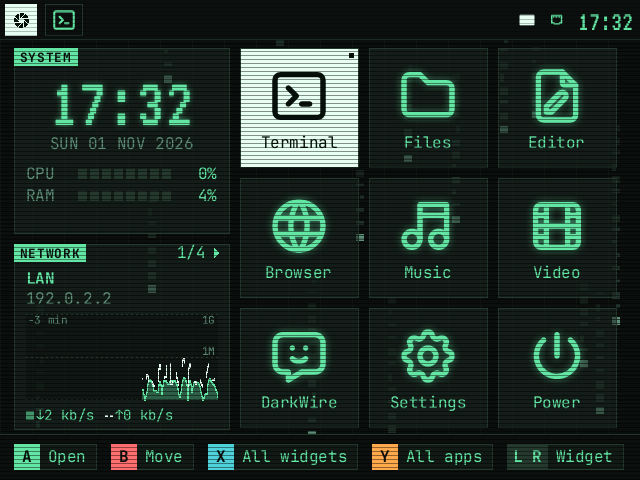
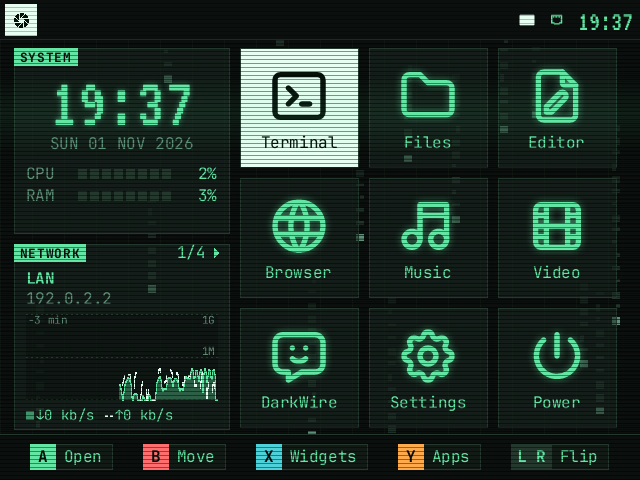
README plus sobre, fonctions ajoutées, contributions ; briques à jour
Le README présente l'accueil et ses épingles, les widgets épinglés et le
défilement au doigt, sur un ton neutre, et dit que les issues sont
bienvenues mais pas les pull requests. Captures refaites sur le fork
0.4.2+u18, plus Tous les widgets. CLAUDE.md perd sa partie Environnement
et parle de l'utilisateur dans Tests. briques.md rattrape u2-u4, u6, u13,
u16, u18 et ne renvoie plus au dossier partagé.

Claude-Session: https://claude.ai/code/session_01TamZHopLs23VsKSuJrapoh

diff --git a/docs/briques.md b/docs/briques.md
@@ -23,8 +23,8 @@ Une ligne par brique : ce qu'on prend, pourquoi, ou pourquoi on l'écarte.
 | config Start / Select | inutile | le comportement voulu (menu, bascule d'apps, jamais transmis aux apps) est celui de PT35-OS par défaut |
 | `stow --no-folding` | retenu | sans lui, stow lie tout `~/.config/pt35` vers le dépôt, et Apparence écrirait `appearance.toml` dans le dépôt |
 | [Pixelitos](https://github.com/ItsZariep/pixelitos-icon-theme), [Star Pixel](https://github.com/starciad/star-pixel-icons-theme) | écarté | thèmes d'icônes pixel en PNG et en couleur ; `pt35-menu` ne lit que du SVG |
-| teinte verte des icônes Papirus (patch fork) | écarté | choix de Djé : nos propres icônes pixel plutôt qu'une teinte automatique |
-| icônes pixel maison (32x32) | écarté | dessinées puis remplacées : Djé préfère des SVG nets, le halo et les scanlines venant du rendu |
+| teinte verte des icônes Papirus (patch fork) | écarté | nos propres icônes plutôt qu'une teinte automatique |
+| icônes pixel maison (32x32) | écarté | dessinées puis remplacées par des SVG nets, le halo et les scanlines venant du rendu |
 | [Tabler Icons](https://github.com/tabler/tabler-icons) (MIT) | retenu | SVG au trait, 5900 icônes, cône VLC compris ; `tools/icons.sh` en copie 12 en vert dans le thème `Phosphore`, qui hérite de Papirus |
 | [Lucide](https://github.com/lucide-icons/lucide) (ISC) | écarté | même style et a toutes nos icônes, mais deux fois moins fourni que Tabler |
 | halo et scanlines en SVG (`feGaussianBlur`, resvg le gère) | écarté | à refaire dans chaque fichier ; fait une fois au rendu dans notre fork (`0.4.2+u2`) |
@@ -40,10 +40,10 @@ Une ligne par brique : ce qu'on prend, pourquoi, ou pourquoi on l'écarte.
 | client D-Bus en Rust (`zbus`) | écarté | nouvelle dépendance et plus de code pour ce que `playerctl` fait déjà |
 | VLC pour Musique | remplacé | Musique passe sur mpv + uosc : une seule interface à habiller pour la musique et la vidéo |
 | icône principale : Tabler `aperture`, `headset`, `radioactive` | écarté | floues à 16 px dans la barre, et la barre dessine le crâne en pixels : il aurait fallu y lire un SVG ; `radioactive` est un signal de danger |
-| icône principale : obturateur 8 lames en pixel art (fork `0.4.2+u7`) | retenu | clin d'œil à Portal, net à 16 px car ses fentes suivent la grille ; remplace le dessin du crâne tel quel. Pistes : `design/icone-main-pistes-v2.png` du dossier partagé |
+| icône principale : obturateur 8 lames en pixel art (fork `0.4.2+u7`) | retenu | clin d'œil à Portal, net à 16 px car ses fentes suivent la grille ; remplace le dessin du crâne tel quel. Pistes : [`docs/design/icone-main/pistes-v2.png`](design/icone-main/pistes-v2.png) |
 | interrupteurs `0` / `1` (premier jet u9) | remplacé | ON / OFF en toutes lettres sur fond plein vert ou rouge : l'état se lit sans distinguer les couleurs |
 | thème Plymouth `script` (`plymouth/pocketterm/`) | retenu | remplace l'écran « Raspberry Pi Desktop » (thème `pix` de `rpd-plym-splash`) sans fork : une image par état de la barre, échangées par le script |
-| images de démarrage générées à l'install (`tools/splash.py`, Pillow) | retenu | aucune image dans le dépôt : couleurs, obturateur et police viennent de la charte, un changement suit au prochain `install.sh`. Pistes : `design/boot/` du dossier partagé |
+| images de démarrage générées à l'install (`tools/splash.py`, Pillow) | retenu | aucune image dans le dépôt : couleurs, obturateur et police viennent de la charte, un changement suit au prochain `install.sh` |
 | texte dessiné par Plymouth (`Image.Text`) | écarté | il faudrait mettre la police dans l'initramfs ; l'image figée suffit |
 | numéros de ligne dans les listes | écarté | bruit à 640x480, le fil d'Ariane donne déjà la position ; `install.sh` pose `show_numbers = false` |
 | accueil uosc à l'idle, `scripts/pt35-home.lua` (API de menus d'uosc) | retenu | écran noir sans fichier une fois « Drop files » masqué. Un menu uosc dit que la médiathèque est vide et propose Browse (navigateur d'uosc) et une URL tapée dans son champ de recherche : thème déjà fait, aucun patch du fork |
@@ -51,7 +51,7 @@ Une ligne par brique : ce qu'on prend, pourquoi, ou pourquoi on l'écarte.
 | profils mpv `pt35-music` / `pt35-video` | retenu | chaque app a sa médiathèque (`uosc-default_directory`) ; les playlists sont déjà séparées, un processus mpv par app. Les `.m3u` s'ouvrent depuis Browse sans réglage |
 | vnstat pour la courbe de débit | écarté | historique par tranches de 5 min au mieux, il faut un point toutes les 2 s : `pt35d` lit déjà les compteurs de `/sys/class/net` à chaque tour |
 | courbe de débit en échelle log fixe 1k → 1G (fork u12) | retenu | repos et téléchargement lisibles sur le même graphe, aucun saut d'échelle ; les lignes sont les unités. Le linéaire auto écrasait le repos 3 min après chaque rafale |
-| widgets en pile, L / R et toucher sur l'en-tête (fork u12) | retenu | pas de glisser possible ; les onglets ne tiennent pas plus de 2 widgets dans 216 px. L / R ne servaient sur l'accueil qu'à changer de mode, que l'icône de la barre fait déjà |
+| widgets en pile, L / R et toucher sur l'en-tête (fork u12) | retenu | les onglets ne tiennent pas plus de 2 widgets dans 216 px. L / R ne servaient sur l'accueil qu'à changer de mode, que l'icône de la barre fait déjà |
 | un widget par connexion (LAN, Wi-Fi) | écarté | afficher un périphérique inutilisé n'apporte rien : NETWORK suit la route que `pt35d` connaît déjà |
 | [tmux](https://github.com/tmux/tmux) (ISC, Debian) pour la barre du bas du Terminal | retenu | barre de statut native, couleurs en config ; donne aussi la molette sur l'historique et la copie OSC 52 vers foot. Lancé par la tuile Terminal et Super+Entrée seulement : `foot ssh …` et les apps en `foot -a` restent sans |
 | [Zellij](https://zellij.dev/) | écarté | barre plus riche mais binaire hors Debian, plus lourd, raccourcis qui prennent beaucoup de touches : YAGNI |
@@ -61,7 +61,7 @@ Une ligne par brique : ce qu'on prend, pourquoi, ou pourquoi on l'écarte.
 | Waybar (modules custom + `on-click`) | écarté | pas de moyen fiable de l'afficher seulement sur l'éditeur (SIGUSR1 bascule à l'aveugle) |
 | barre d'actions par app dans `pt35-bar` (fork) | en réserve | la bonne place à terme, et proposable à upstream ; patch Rust à reporter à chaque version, pour six boutons |
 | hosts du widget HOSTS lus dans `~/.ssh/config` (fork u13) | retenu | déjà la source de vérité, reste sur l'appareil, rien dans le dépôt ; `ssh -G` résout comme ssh. Pin / unpin sur l'écran SSH |
-| ping (ICMP) pour HOSTS | écarté | une connexion TCP au port SSH dit si on peut s'y connecter, et passe quand l'ICMP est filtré ; un test toutes les 2 min par `pt35d` |
+| ping (ICMP) pour HOSTS | écarté | une connexion TCP au port SSH dit si on peut s'y connecter, et passe quand l'ICMP est filtré ; un test toutes les 2 min par `pt35d`, toutes les 10 s au démarrage tant qu'aucun ne répond (fork u16) |
 | VPN OpenVPN dans NETWORK | à cadrer | NetworkManager importe les `.ovpn` (`network-manager-openvpn`) ; le widget ferait `nmcli con up/down` |
 | redémarrer `pt35d` et la barre dans le `postinst` (fork u14) | retenu | les boucles de respawn du sway config relancent les nouveaux binaires ; sinon l'ancien démon reste jusqu'au prochain login et les widgets HOSTS et NETWORK restent vides |
 | réordonner les épingles de l'accueil avec B (fork u15) | retenu | B ne fait rien sur l'accueil ; L/R tournent déjà les widgets et il n'y a pas d'autre bouton au dos. Croix = échange avec la voisine, A ou B pose, ordre écrit dans le fichier `pinned` à chaque pas. Tuile saisie : cadre épais + étiquette MOVE |
@@ -74,3 +74,8 @@ Une ligne par brique : ce qu'on prend, pourquoi, ou pourquoi on l'écarte.
 | bandeau `pt35-actions` pour Files | écarté | le clavier physique fait Ctrl+C / Ctrl+V : pas d'interface en plus |
 | [sshfs.yazi](https://github.com/uhs-robert/sshfs.yazi) | écarté | monte par sshfs (FUSE, paquet en plus) ce que le SFTP natif de yazi fait déjà |
 | L / R pour les onglets de Files (patch `pt35d`) | écarté pour l'instant | L ferme et R change de mode partout : un sens par bouton. Y (F10, libre dans yazi) liste les onglets comme X liste les lieux, et un hôte choisi par X s'ouvre dans son propre onglet : deux onglets suffisent pour copier |
+| accueil = grille d'épingles et colonne de widgets (fork u2 à u4) | retenu | maquette `01-accueil` : le lanceur d'upstream liste tout, l'accueil ne montre que ce qu'on a épinglé ; Toutes les apps (Y) pour le reste. `install.sh` pose un premier jeu dans `pinned` |
+| balayage CRT et tuiles translucides (fork u6) | retenu | effets au rendu du menu, jamais sur une app ; l'opacité des tuiles se règle dans Réglages rapides, rangée dans `appearance.toml` |
+| widget STORAGE lu par `df` (fork u13) | retenu | `df` donne déjà le disque système et les clés USB : ni udisks ni dépendance Rust |
+| défilement au doigt, action au lever (fork u18) | retenu | PT35-OS 0.4.2 : un toucher = un clic au contact, aucune liste ne défile. Au lever : glisser > 12 px = défilement ligne à ligne, balayage = carte suivante dans la bascule, appui 0,5 s = menu de la ligne (le clic droit). Un second doigt est ignoré |
+| PR externes sur ce dépôt | écarté pour l'instant | réglage GitHub « Pull requests : collaborateurs seulement » (natif depuis février 2026) plutôt qu'une Action qui ferme les PR ; les issues restent ouvertes, `README.md` le dit |

diff --git a/README.md b/README.md
@@ -1,53 +1,91 @@
 # PocketTerm 3.5 Unleashed
 
 Un thème et quelques réglages pour le
-[WaveShare PocketTerm 3.5](https://www.waveshare.com/), posés par-dessus
+[WaveShare PocketTerm 3.5](https://www.waveshare.com/), au-dessus de
 [PocketTerm35-OS](https://github.com/therezor/PocketTerm35-OS).
 
 ![Accueil : horloge, widget réseau et grille d'apps épinglées](docs/captures/accueil.png)
 
 PocketTerm35-OS fournit le bureau : sway, le lanceur, la barre, la gestion des
-boutons. Ce projet ne le remplace pas. Il ajoute ses fichiers dans `~/.config`,
-que PocketTerm35-OS fusionne avec ses défauts, et installe une version de
-PocketTerm35-OS patchée par [notre fork](https://github.com/Kalacione/PocketTerm35-OS).
-Le désinstaller rend le bureau d'origine.
+boutons. Ce projet s'appuie dessus. Une partie passe par sa configuration
+(fichiers dans `~/.config`, fusionnés avec ses défauts), le reste par des
+patchs sur [un fork](https://github.com/Kalacione/PocketTerm35-OS), installé à
+la place du paquet d'origine. La désinstallation retire nos fichiers.
 
-## Ce que ça change
+C'est un projet personnel, testé sur un seul appareil (Raspberry Pi 5, 8 Go).
 
-- **Thème Phosphore** : vert doux sur fond sombre, police pixel VT323 pour les
-  horloges, JetBrains Mono pour le texte, lignes de balayage façon écran CRT.
-  Les états importants (ON, OFF, DOWN, FULL) sont toujours écrits en toutes
-  lettres sur fond plein, jamais portés par la couleur seule.
-- **Écran d'accueil** : horloge, CPU et RAM, une pile de widgets (réseau,
-  lecture en cours, stockage, hôtes SSH) et une grille d'apps épinglées, qu'on
-  réordonne aux boutons.
-- **Icônes** des apps redessinées à partir de [Tabler Icons](https://tabler.io/icons).
-- **Terminal** dans tmux, avec une barre du bas aux couleurs du thème.
-- **Musique et Vidéo** sur mpv avec l'interface tactile [uosc](https://github.com/tomasklaen/uosc).
-- **Fichiers** (yazi) aux couleurs du thème, avec des onglets et les serveurs
-  de `~/.ssh/config` : copier / coller entre local et SSH, ou entre deux serveurs.
-- **Éditeur** avec un bandeau de gros boutons (Copier, Coller, Enregistrer...)
-  utilisables au doigt.
-- **Écran de démarrage** Plymouth assorti.
+## Ce que ça ajoute
 
-## Captures
+### Un accueil avec ses apps épinglées
 
-Rendus à 640x480 du code de la version épinglée, hors appareil : les icônes
-système et les valeurs affichées peuvent différer un peu sur le PocketTerm.
+L'accueil n'affiche que les apps épinglées, en grille. Y ouvre Toutes les
+apps, où Y épingle ou retire une app (X cherche). Sur l'accueil, B saisit une
+tuile, la croix la déplace et A ou B la pose. L'ordre est gardé dans
+`~/.local/state/pt35/pinned`. L'installation épingle un premier jeu d'apps.
+
+### Des widgets épinglés
+
+À gauche de l'accueil, un panneau fixe (heure, CPU, RAM) et, dessous, une
+pile de widgets épinglés, un visible à la fois. L ou R, ou un toucher sur
+l'en-tête, passe au suivant. X ouvre Tous les widgets, où Y épingle.
 
 | | |
 |---|---|
-| ![Accueil avec le widget Hosts](docs/captures/accueil-hosts.png) | ![Bascule entre fenêtres](docs/captures/fenetres.png) |
-| Accueil, widget Hosts : état des hôtes de `~/.ssh/config` | Bascule entre fenêtres (Select) |
+| ![Accueil avec le widget Hosts](docs/captures/accueil-hosts.png) | ![Tous les widgets](docs/captures/tous-les-widgets.png) |
+| Widget Hosts | Tous les widgets |
+
+- **Network** : la connexion utilisée (LAN, Wi-Fi ou hors ligne), l'adresse IP
+  et le débit des trois dernières minutes.
+- **Media** : le lecteur en cours (MPRIS), avec précédent, lecture / pause,
+  suivant. Il passe devant quand un lecteur démarre.
+- **Storage** : le disque système et les clés USB, avec une alerte au-delà de
+  75 % puis 90 %.
+- **Hosts** : jusqu'à trois hôtes de `~/.ssh/config`, choisis sur l'écran SSH
+  (Toutes les apps). Chacun est UP, SLOW ou DOWN ; un toucher ouvre la
+  connexion. La liste reste sur l'appareil.
+
+### Le défilement au doigt
+
+Dans PocketTerm35-OS 0.4.2, un toucher est un clic à l'endroit du contact :
+une liste ne défile pas au doigt. Ici, le doigt agit quand il se lève. Un
+glisser fait défiler la liste sans ouvrir ce qu'il touchait, un balayage
+change de carte dans la bascule entre fenêtres, et un appui d'une demi-seconde
+ouvre le menu de la ligne (Ouvrir et Épingler sur une app, Fermer sur une
+fenêtre).
+
+### Un thème : Phosphore
+
+Vert doux sur fond sombre, police pixel VT323 pour les horloges, JetBrains
+Mono pour le texte, lignes de balayage façon écran cathodique. Les états
+(ON, OFF, UP, DOWN, FULL) sont écrits en toutes lettres sur fond plein : on
+les lit sans distinguer les couleurs. Les icônes des apps viennent de
+[Tabler Icons](https://tabler.io/icons). La charte est dans
+[`DESIGN.md`](DESIGN.md).
+
+### Des apps réglées pour l'écran
+
+- **Terminal** dans tmux, avec une barre du bas aux couleurs du thème.
+- **Fichiers** (yazi) avec des onglets et les hôtes de `~/.ssh/config` :
+  copier et coller entre l'appareil et un serveur, ou entre deux serveurs.
+- **Musique et Vidéo** sur mpv avec l'interface tactile
+  [uosc](https://github.com/tomasklaen/uosc).
+- **Éditeur** avec un bandeau de gros boutons (Copier, Coller,
+  Enregistrer...) en bas de l'écran.
+- Un **écran de démarrage** assorti.
+
+## Captures
+
+Rendues à 640x480 depuis le code de la version testée, hors appareil. Les
+icônes système et les valeurs affichées diffèrent un peu sur le PocketTerm.
+
+| | |
+|---|---|
 | ![Toutes les apps](docs/captures/toutes-les-apps.png) | ![Réglages rapides](docs/captures/reglages-rapides.png) |
 | Toutes les apps | Réglages rapides |
-| ![Terminal dans tmux](docs/captures/terminal.png) | ![Éditeur et son bandeau d'actions](docs/captures/editeur.png) |
-| Terminal dans tmux | Éditeur et son bandeau d'actions |
-| ![Écran de démarrage](docs/captures/demarrage.png) | |
-| Écran de démarrage | |
-
-La charte graphique est décrite dans [`DESIGN.md`](DESIGN.md), avec des
-maquettes dans [`docs/design/`](docs/design/).
+| ![Bascule entre fenêtres](docs/captures/fenetres.png) | ![Terminal dans tmux](docs/captures/terminal.png) |
+| Bascule entre fenêtres (Select) | Terminal dans tmux |
+| ![Éditeur et son bandeau](docs/captures/editeur.png) | ![Écran de démarrage](docs/captures/demarrage.png) |
+| Éditeur et son bandeau | Écran de démarrage |
 
 ## Prérequis
 
@@ -161,25 +199,15 @@ Puis redémarrer si `PT35_VERSION` a changé.
 
 ## Versions
 
-Le projet est testé sur une seule version de PocketTerm35-OS, écrite dans
-[`PT35_VERSION`](PT35_VERSION). La commande d'installation de PocketTerm35-OS
-prend toujours la dernière version, qui peut ne pas convenir à ces réglages :
-`./install.sh` s'arrête alors et propose `./install.sh --pt35`.
-`./install.sh --force` passe outre.
+Le projet est testé avec une seule version de PocketTerm35-OS, écrite dans
+[`PT35_VERSION`](PT35_VERSION). L'installeur de PocketTerm35-OS prend toujours
+la dernière version : `./install.sh` s'arrête alors et propose
+`./install.sh --pt35`. `./install.sh --force` passe outre.
 
-Une version en `+u<n>` (par exemple `0.4.2+u16`) est PocketTerm35-OS avec nos
-patchs, sur [notre fork](https://github.com/Kalacione/PocketTerm35-OS). Son
-[CHANGELOG](https://github.com/Kalacione/PocketTerm35-OS/blob/main/CHANGELOG.md)
-détaille chaque patch. Une version est publiée ainsi :
-
-1. le patch est fusionné sur le fork, avec sa version dans `Cargo.toml` et son
-   entrée dans le CHANGELOG ;
-2. `tools/ship.sh` pose le tag sur le fork, attend le `.deb` construit par sa
-   CI, puis écrit la version dans `PT35_VERSION` sur ce dépôt ;
-3. sur l'appareil, la mise à jour ci-dessus installe ce `.deb`.
-
-Revenir à la version d'avant : annuler le commit de `PT35_VERSION`
-(`git revert`), puis relancer la mise à jour.
+Une version en `+u<n>` (par exemple `0.4.2+u18`) est PocketTerm35-OS avec nos
+patchs. Le [CHANGELOG du fork](https://github.com/Kalacione/PocketTerm35-OS/blob/main/CHANGELOG.md)
+les décrit un par un. Pour revenir à la version d'avant : `git revert` du
+dernier commit de `PT35_VERSION`, puis la mise à jour ci-dessus.
 
 ## Désinstallation
 
@@ -221,6 +249,13 @@ installé reste celui de `PT35_VERSION`.
 | `docs/specs.md` | specs, priorités et TODO |
 | `docs/briques.md` | logiciels retenus ou écartés, et pourquoi |
 | `CLAUDE.md` | règles du projet, pour les contributeurs humains et IA |
+
+## Contribuer
+
+Les issues sont bienvenues : un bug, une question, une idée. Les pull requests
+ne sont pas acceptées pour l'instant, faute de temps pour les suivre. Ce qui
+servirait à tous les PocketTerm a plutôt sa place chez
+[PocketTerm35-OS](https://github.com/therezor/PocketTerm35-OS).
 
 ## Remerciements
 

diff --git a/CLAUDE.md b/CLAUDE.md
@@ -98,7 +98,7 @@ Si une surcharge ne suffit pas : PR sur un fork d'upstream, pas de patch local.
 
 ## Tests
 
-Djé teste sur l'appareil lui-même, sans accès distant pour l'agent. Chaque
+L'utilisateur teste sur l'appareil lui-même, sans accès distant pour l'agent. Chaque
 changement livre donc :
 
 - les commandes exactes à lancer sur le Pi ;
@@ -106,8 +106,3 @@ changement livre donc :
 - comment revenir en arrière.
 
 Logs utiles : `/run/user/1000/pt35/sway.log`.
-
-## Environnement
-
-Jean-Michel : harness IA local (gemma4 / qwen3.8) sur le réseau de Djé. À
-considérer comme brique disponible avant d'ajouter un autre service IA.
